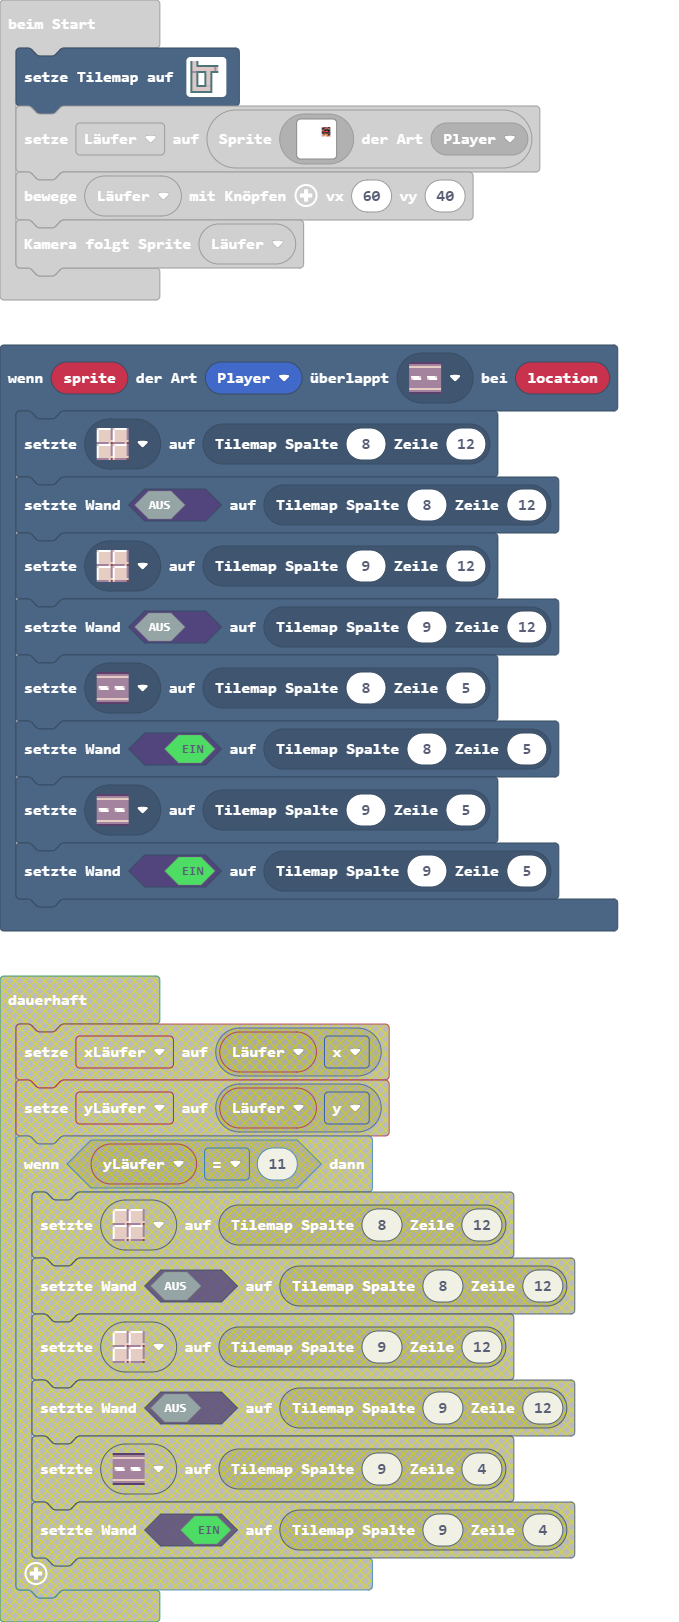
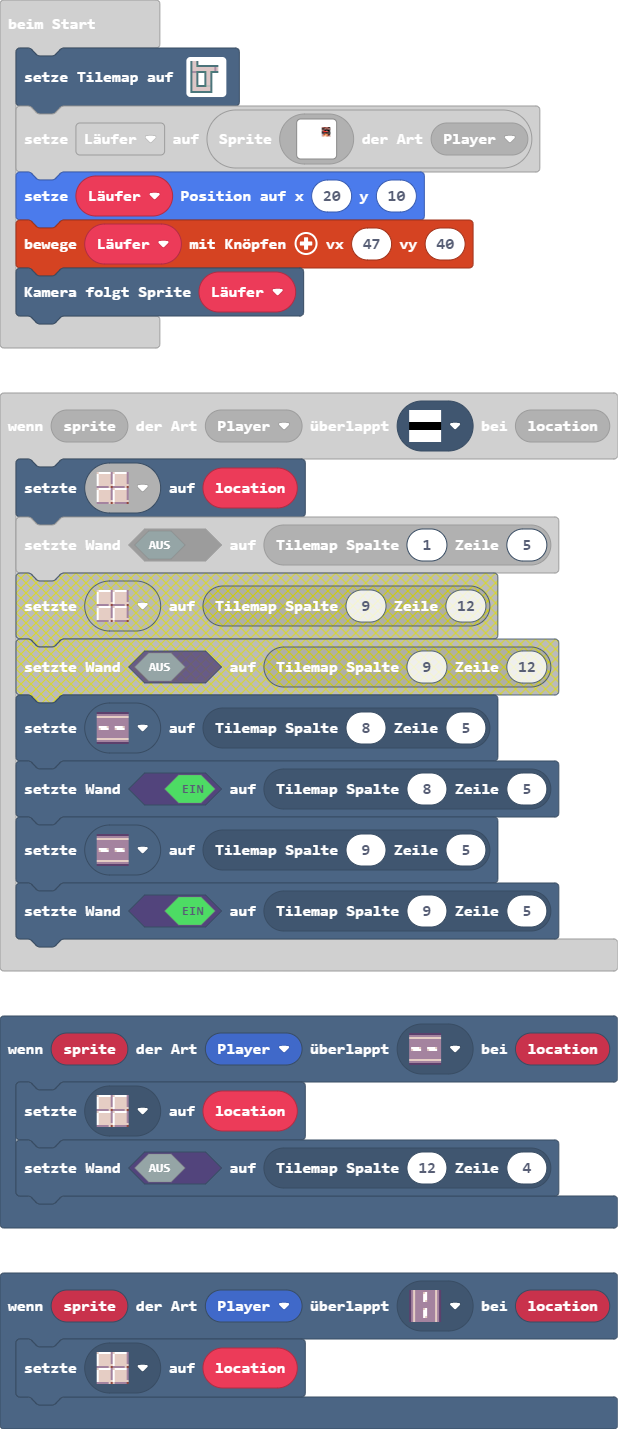
Aktualisiere main.blocks, main.ts

diff --git a/main.ts b/main.ts
@@ -1,12 +1,17 @@
-scene.onOverlapTile(SpriteKind.Player, sprites.vehicle.roadHorizontal, function (sprite, location) {
-    tiles.setTileAt(tiles.getTileLocation(8, 12), sprites.dungeon.floorLight0)
-    tiles.setWallAt(tiles.getTileLocation(8, 12), false)
-    tiles.setTileAt(tiles.getTileLocation(9, 12), sprites.dungeon.floorLight0)
-    tiles.setWallAt(tiles.getTileLocation(9, 12), false)
+scene.onOverlapTile(SpriteKind.Player, myTiles.tile2, function (sprite, location) {
+    tiles.setTileAt(location, sprites.dungeon.floorLight0)
+    tiles.setWallAt(tiles.getTileLocation(1, 5), false)
     tiles.setTileAt(tiles.getTileLocation(8, 5), sprites.vehicle.roadHorizontal)
     tiles.setWallAt(tiles.getTileLocation(8, 5), true)
     tiles.setTileAt(tiles.getTileLocation(9, 5), sprites.vehicle.roadHorizontal)
     tiles.setWallAt(tiles.getTileLocation(9, 5), true)
+})
+scene.onOverlapTile(SpriteKind.Player, sprites.vehicle.roadVertical, function (sprite, location) {
+    tiles.setTileAt(location, sprites.dungeon.floorLight0)
+})
+scene.onOverlapTile(SpriteKind.Player, sprites.vehicle.roadHorizontal, function (sprite, location) {
+    tiles.setTileAt(location, sprites.dungeon.floorLight0)
+    tiles.setWallAt(tiles.getTileLocation(12, 4), false)
 })
[1 lines of base64/hex data omitted]
     2 . . 2 . . . . . . . . . . . . 
@@ -21,7 +26,7 @@ tiles.setTilemap(tiles.createTilemap(hex`10001000080a0a0300000000000000000000000
     2 . . 2 . . . 2 . . 2 . . . . . 
     2 . . 2 . . . 2 . . 2 . . . . . 
     2 . . 2 . . . 2 . . 2 . . . . . 
-    2 . . 2 2 2 2 2 2 2 2 . . . . . 
+    2 . . 2 2 2 2 2 . 2 2 . . . . . 
     2 . . . . . . . . . 2 . . . . . 
     2 . . . . . . . . . 2 . . . . . 
     2 2 2 2 2 2 2 2 2 2 2 . . . . . 
@@ -52,5 +57,6 @@ let Läufer = sprites.create(img`
     ........................
     ........................
     `, SpriteKind.Player)
-controller.moveSprite(Läufer, 60, 40)
+Läufer.setPosition(20, 10)
+controller.moveSprite(Läufer, 47, 40)
 scene.cameraFollowSprite(Läufer)
